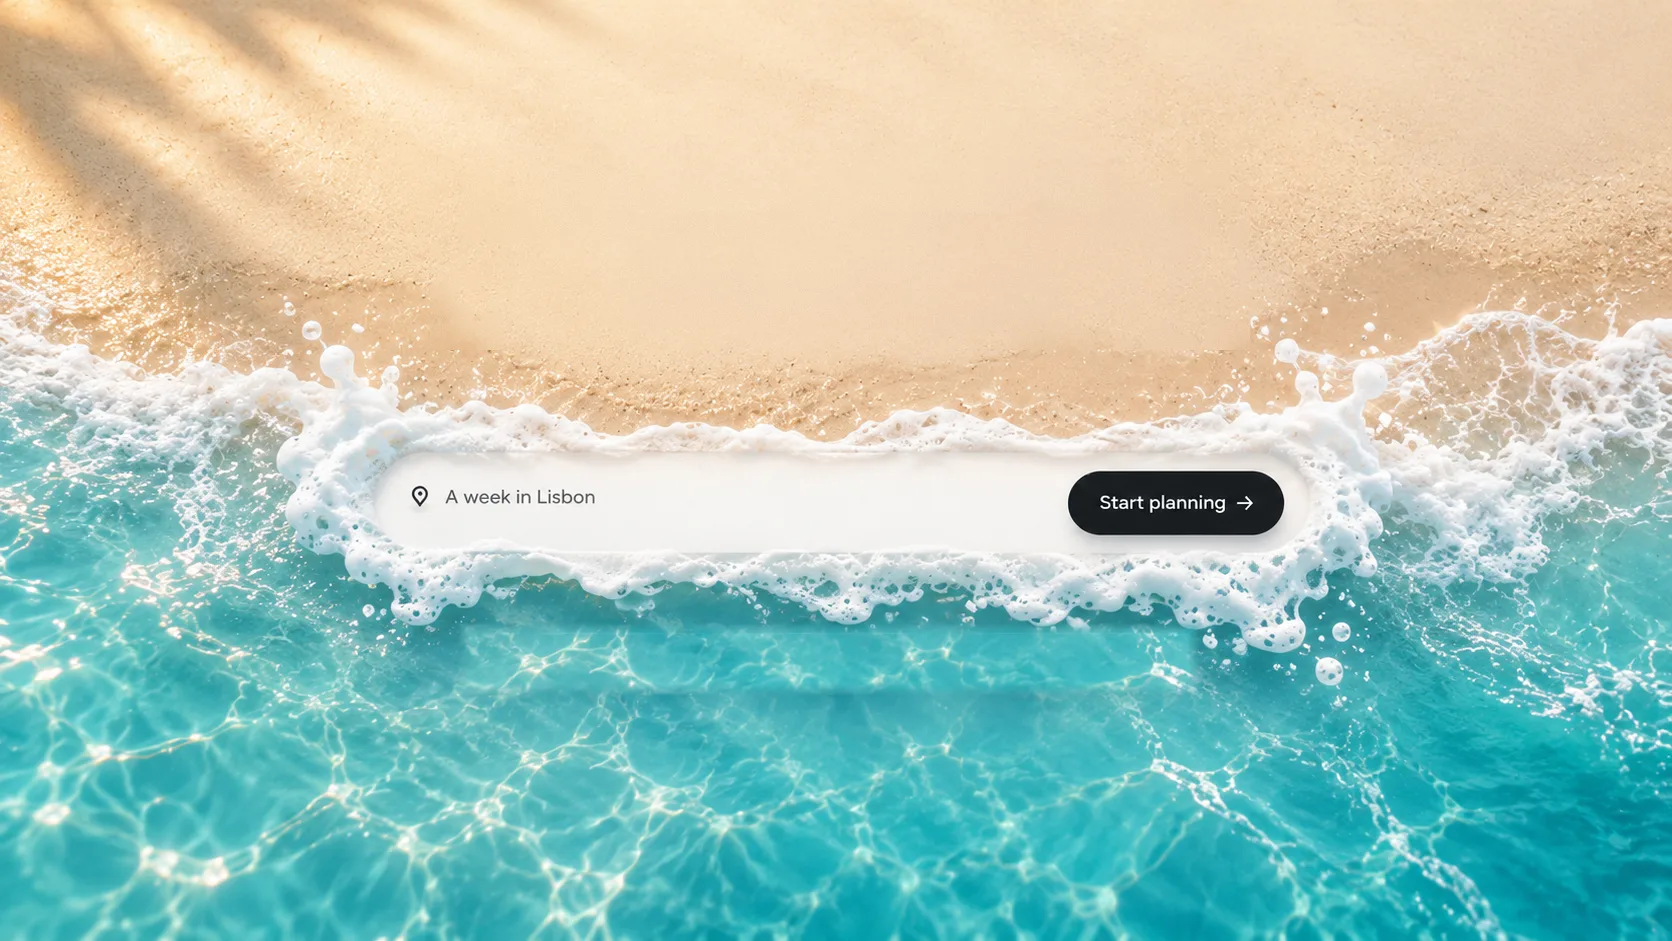
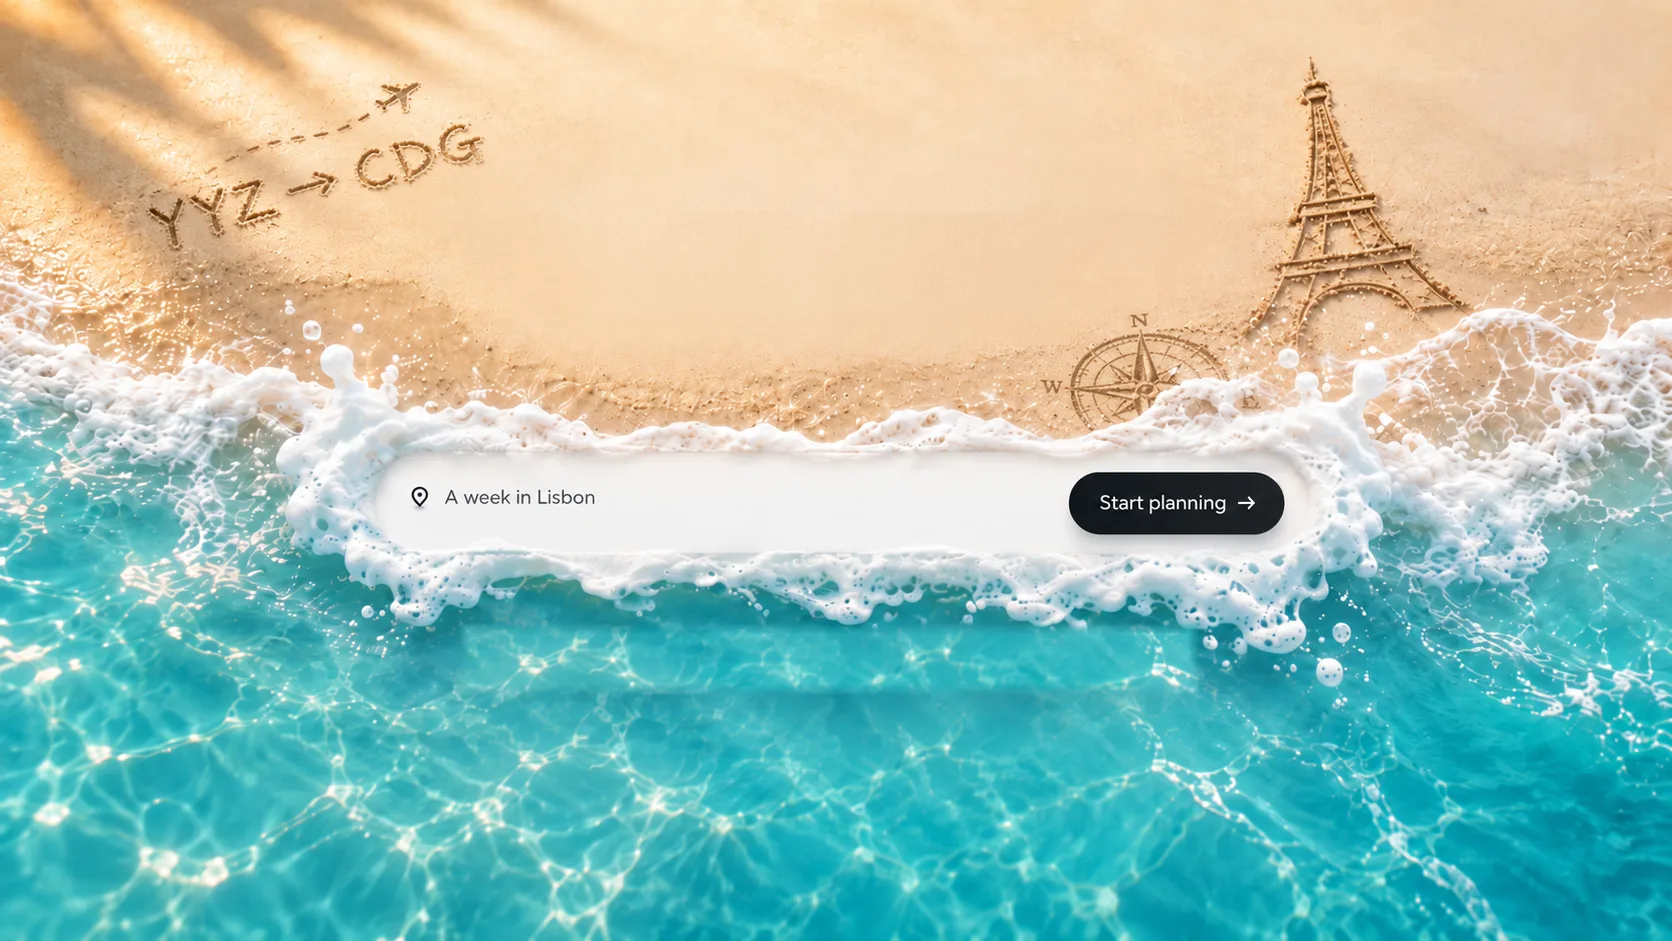
Landing beach: the tide comes in on scroll - water rises over the sand drawings, the prompt rides up with its foam, then the page hands over
Claude-Session: https://claude.ai/code/session_01KpcmAMiRXZ1deWjubm1bEU

diff --git a/components/landing/scenes/PromptScene.tsx b/components/landing/scenes/PromptScene.tsx
@@ -35,24 +35,48 @@ export function PromptScene() {
     }
     const ctx = gsap.context(() => {
       gsap.to(parts, { opacity: 1, y: 0, duration: 0.7, ease: "cubic-bezier(.22, 1, .36, 1)", stagger: 0.09, delay: 0.15 });
+
       // The first screen hands over to the story: it lifts and fades within the first fifth of a
       // screen of scroll, so it is gone before the chat bubbles rise into view.
       // The glow lets go a little later and slower than the text, so the story below arrives on a clean page.
-      gsap.to(bloomRef.current, {
-        opacity: 0,
-        y: -24,
-        ease: "none",
-        scrollTrigger: { trigger: sectionRef.current, start: "top top", end: () => `+=${window.innerHeight * 0.65}`, scrub: true, invalidateOnRefresh: true },
-      });
-      gsap.to(contentRef.current, {
-        opacity: 0,
-        y: -48,
-        ease: "none",
-        scrollTrigger: { trigger: sectionRef.current, start: "top top", end: () => `+=${window.innerHeight * 0.2}`, scrub: true, invalidateOnRefresh: true },
-      });
+      const lift = () => {
+        gsap.to(bloomRef.current, {
+          opacity: 0,
+          y: -24,
+          ease: "none",
+          scrollTrigger: { trigger: sectionRef.current, start: "top top", end: () => `+=${window.innerHeight * 0.65}`, scrub: true, invalidateOnRefresh: true },
+        });
+        gsap.to(contentRef.current, {
+          opacity: 0,
+          y: -48,
+          ease: "none",
+          scrollTrigger: { trigger: sectionRef.current, start: "top top", end: () => `+=${window.innerHeight * 0.2}`, scrub: true, invalidateOnRefresh: true },
+        });
+      };
+
+      // Beach on a wide screen: the page stays put while the tide comes in. The water (a second copy
+      // of the photograph, cut along the foam) rises over the sand and washes out what is drawn in it;
+      // the prompt rides up with its foam, then fades once the water reaches the headline.
+      const tide = () => {
+        const tideEl = sectionRef.current?.querySelector<HTMLElement>("[data-beach-tide]");
+        const [headline, sub, box] = [partRefs.current[0], partRefs.current[1], partRefs.current[2]];
+        if (!tideEl || !headline || !sub || !box) return lift();
+        const rise = () => Math.max(window.innerWidth, window.innerHeight * 1.7778) * 0.5628 * 0.8;
+        const tl = gsap.timeline({
+          scrollTrigger: { trigger: sectionRef.current, start: "top top", end: () => `+=${window.innerHeight * 1.7}`, scrub: 0.8, pin: true, anticipatePin: 1, invalidateOnRefresh: true },
+        });
+        tl.to(tideEl, { y: () => -rise(), ease: "none", duration: 1 }, 0)
+          .to(box, { y: () => -rise(), ease: "none", duration: 1 }, 0)
+          .to(box, { opacity: 0, ease: "power1.in", duration: 0.3 }, 0.45)
+          .to([headline, sub], { opacity: 0, y: -30, ease: "power1.in", duration: 0.3 }, 0.35);
+      };
+
+      const mm = gsap.matchMedia();
+      mm.add("(min-width: 768px) and (min-aspect-ratio: 7/5)", () => (beach ? tide() : lift()));
+      mm.add("(max-width: 767px), (max-aspect-ratio: 7/5)", () => lift());
     }, sectionRef);
     return () => ctx.revert();
-  }, []);
+  }, [beach]);
 
   const part = (index: number) => (el: HTMLElement | null) => {
     partRefs.current[index] = el;
@@ -70,14 +94,14 @@ export function PromptScene() {
       <div ref={contentRef} className={`relative mx-auto flex w-full max-w-3xl flex-col items-center text-center ${beach ? "beach-content" : ""}`}>
         <h1
           ref={part(0)}
-          className={`${beach ? "beach-h1 " : ""}translate-y-4 font-display text-[clamp(2.5rem,6.6vw,5.25rem)] [@media(max-height:760px)]:text-[clamp(2.1rem,5.4vw,3.9rem)] leading-[0.98] tracking-[-0.04em] text-balance opacity-0`}
+          className={`${beach ? "beach-h1 " : "translate-y-4 "}font-display text-[clamp(2.5rem,6.6vw,5.25rem)] [@media(max-height:760px)]:text-[clamp(2.1rem,5.4vw,3.9rem)] leading-[0.98] tracking-[-0.04em] text-balance opacity-0`}
         >
           Let&rsquo;s plan something.
         </h1>
-        <p ref={part(1)} className={`${beach ? "beach-sub " : ""}mt-5 [@media(max-height:760px)]:mt-3 max-w-xl translate-y-4 text-base leading-relaxed text-balance opacity-0 sm:text-lg ${variant === "photo" ? "font-medium text-foreground/80 [text-shadow:0_1px_14px_rgba(255,255,255,0.65)]" : "text-muted-foreground"}`}>
+        <p ref={part(1)} className={`${beach ? "beach-sub " : "translate-y-4 "}mt-5 [@media(max-height:760px)]:mt-3 max-w-xl text-base leading-relaxed text-balance opacity-0 sm:text-lg ${variant === "photo" ? "font-medium text-foreground/80 [text-shadow:0_1px_14px_rgba(255,255,255,0.65)]" : "text-muted-foreground"}`}>
           Dates, budget, who&rsquo;s coming. Share the rough idea and watch the trip take shape.
         </p>
-        <div ref={part(2)} className={`${beach ? "beach-box " : ""}mt-9 [@media(max-height:760px)]:mt-5 w-full translate-y-4 opacity-0`}>
+        <div ref={part(2)} className={`${beach ? "beach-box " : "translate-y-4 "}mt-9 [@media(max-height:760px)]:mt-5 w-full opacity-0`}>
           <TripPromptBox onTyping={setTypedLength} foam={variant === "shore" || variant === "rock" || variant === "photo" || beach} foamSides={variant !== "photo" && !beach} beach={beach} />
         </div>
       </div>

diff --git a/components/landing/beachClip.ts b/components/landing/beachClip.ts
@@ -1,0 +1,7 @@
+/**
+ * Outline of the foam crest in public/landing/beach.webp (traced from the picture, in percent of its
+ * 1672 x 941 frame): everything below this line is water and foam. It lets the water be a second copy
+ * of the picture that can rise over the sand on scroll.
+ */
+export const BEACH_WATER_CLIP =
+  "polygon(0.00% 29.01%, 0.84% 30.18%, 1.67% 30.61%, 2.51% 28.69%, 3.35% 27.84%, 4.19% 31.67%, 5.02% 30.82%, 5.86% 34.11%, 6.70% 34.01%, 7.54% 37.51%, 8.37% 38.15%, 9.21% 39.85%, 10.05% 39.85%, 10.89% 38.68%, 11.72% 38.26%, 12.56% 38.58%, 13.40% 39.00%, 14.23% 39.85%, 15.07% 39.53%, 15.91% 39.21%, 16.75% 39.21%, 17.58% 34.75%, 18.42% 34.43%, 19.26% 36.88%, 20.10% 36.88%, 20.93% 36.98%, 21.77% 37.62%, 22.61% 41.23%, 23.44% 39.11%, 24.28% 43.46%, 25.12% 43.36%, 25.96% 43.68%, 26.79% 43.68%, 27.63% 43.46%, 28.47% 41.66%, 29.31% 43.46%, 30.14% 43.68%, 30.98% 43.25%, 31.82% 43.15%, 32.66% 44.00%, 33.49% 44.74%, 34.33% 44.85%, 35.17% 45.59%, 36.00% 46.44%, 36.84% 46.55%, 37.68% 46.33%, 38.52% 45.70%, 39.35% 45.48%, 40.19% 45.16%, 41.03% 45.06%, 41.87% 45.27%, 42.70% 45.48%, 43.54% 45.59%, 44.38% 45.91%, 45.22% 45.38%, 46.05% 45.38%, 46.89% 45.91%, 47.73% 46.12%, 48.56% 46.87%, 49.40% 47.29%, 50.24% 46.97%, 51.08% 46.12%, 51.91% 45.16%, 52.75% 44.95%, 53.59% 43.89%, 54.43% 43.78%, 55.26% 43.89%, 56.10% 43.46%, 56.94% 43.78%, 57.78% 44.21%, 58.61% 44.42%, 59.45% 44.63%, 60.29% 45.06%, 61.12% 45.80%, 61.96% 46.55%, 62.80% 46.76%, 63.64% 46.87%, 64.47% 46.65%, 65.31% 46.12%, 66.15% 45.70%, 66.99% 45.16%, 67.82% 44.74%, 68.66% 43.68%, 69.50% 41.87%, 70.33% 40.91%, 71.17% 40.60%, 72.01% 40.38%, 72.85% 40.60%, 73.68% 40.60%, 74.52% 39.96%, 75.36% 43.78%, 76.20% 42.72%, 77.03% 37.41%, 77.87% 39.74%, 78.71% 39.85%, 79.55% 38.15%, 80.38% 42.40%, 81.22% 38.36%, 82.06% 37.09%, 82.89% 38.26%, 83.73% 37.94%, 84.57% 37.19%, 85.41% 36.34%, 86.24% 35.71%, 87.08% 34.96%, 87.92% 33.69%, 88.76% 33.16%, 89.59% 33.05%, 90.43% 33.05%, 91.27% 33.37%, 92.11% 33.69%, 92.94% 34.43%, 93.78% 33.79%, 94.62% 36.13%, 95.45% 36.24%, 96.29% 33.26%, 97.13% 35.28%, 97.97% 34.33%, 98.80% 34.11%, 99.64% 34.01%, 99.94% 33.90%, 100% 100%, 0% 100%)";

diff --git a/components/landing/LandingBloom.tsx b/components/landing/LandingBloom.tsx
@@ -1,3 +1,4 @@
+import { BEACH_WATER_CLIP } from "@/components/landing/beachClip";
 import { BedDouble, CalendarDays, Plane, Utensils, type LucideIcon } from "lucide-react";
 
 export type BloomVariant = "dusk" | "sunrise" | "horizon" | "route" | "trip" | "shore" | "rock" | "photo" | "beach";
@@ -39,8 +40,22 @@ export function LandingBloom({ variant = "beach", progress = 0, className }: { v
           <ShoreBloom />
         </div>
         <div aria-hidden className="beach-bg beach-wide absolute inset-0 overflow-hidden">
+          {/* The whole photograph, still: the sand and everything drawn on it. */}
           {/* eslint-disable-next-line @next/next/no-img-element -- decorative backdrop laid out by CSS */}
-          <img src="/landing/beach.webp" alt="" fetchPriority="high" decoding="async" className="beach-img" />
+          <img src="/landing/beach.webp" alt="" fetchPriority="high" decoding="async" className="beach-stage beach-base" />
+          {/* The water: a second copy of the photograph cut along the foam crest. On scroll it rises over the sand (and whatever is drawn in it). */}
+          <div className="beach-stage beach-tide-wrap" data-beach-tide>
+            <div className="beach-tide">
+              {/* eslint-disable-next-line @next/next/no-img-element -- decorative backdrop laid out by CSS */}
+              <img src="/landing/beach.webp" alt="" decoding="async" className="beach-water" style={{ clipPath: BEACH_WATER_CLIP }} />
+              {/* Open water continues below the photograph's edge: its bottom strip, mirrored and repeated (the foam never reaches it, so the mirroring does not show). */}
+              {[0, 1, 2, 3, 4].map((i) => (
+                <div key={i} className="beach-water-ext" data-flip={i % 2 === 0 ? "y" : undefined} style={{ top: `calc(${100 + i * 20}% - ${i + 1}px)` }} />
+              ))}
+              {/* ...and the farther it gets from the shore the calmer and deeper it looks. */}
+              <div className="beach-water-deep" />
+            </div>
+          </div>
         </div>
       </>
     );

diff --git a/app/globals.css b/app/globals.css
@@ -1075,12 +1075,25 @@
  * the photo's own, out of 1672 x 941.
  */
 @media (min-width: 768px) and (min-aspect-ratio: 7/5) {
-  .beach-img {
+  .beach-stage {
     position: absolute; max-width: none; height: auto;
     width: max(100vw, 177.78vh);
     left: calc(50% - max(100vw, 177.78vh) / 2);
     top: calc(50% - max(100vw, 177.78vh) * 0.2814);
   }
+  .beach-tide-wrap { height: calc(max(100vw, 177.78vh) * 0.5628); pointer-events: none; will-change: transform; }
+  .beach-tide { position: relative; width: 100%; height: 100%; animation: beach-breathe 7s ease-in-out infinite; filter: drop-shadow(0 -3px 5px rgb(255 255 255 / 0.5)); }
+  .beach-water { position: absolute; left: 0; top: 0; width: 100%; height: auto; max-width: none; }
+  .beach-water-ext {
+    position: absolute; left: 0; width: 100%; height: 20%;
+    background: url(/landing/beach.webp) 0 100% / 100% auto no-repeat;
+  }
+  .beach-water-ext[data-flip="y"] { transform: scaleY(-1); }
+  .beach-water-deep {
+    position: absolute; left: 0; width: 100%; top: 96%; height: 120%;
+    background: linear-gradient(to bottom, transparent, rgb(47 175 184 / 0.55) 22%, rgb(30 150 178 / 0.92) 60%);
+  }
+  .beach-box { animation: beach-breathe 7s ease-in-out infinite; }
   .beach-content {
     position: absolute; display: block; max-width: none; padding: 0;
     width: max(100vw, 177.78vh);
@@ -1119,3 +1132,5 @@
   .beach-narrow { display: none; }
   .beach-wide { display: block; }
 }
+@keyframes beach-breathe { 0%, 100% { translate: 0 0; } 50% { translate: 0 -5px; } }
+@media (prefers-reduced-motion: reduce) { .beach-tide, .beach-box { animation: none; } }
